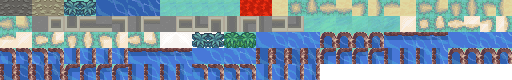
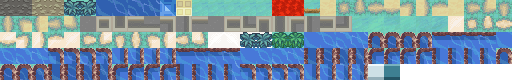
feat(odyssee): intérieurs Noir & Blanc (Centre Pokémon, Boutique), panneaux et rebords, bâtiments qui s'estompent
Claude-Session: https://claude.ai/code/session_013Y6MKYxTsBNxV1yhzsHhpk

diff --git a/odyssee/js/data/gfx-noirblanc.js b/odyssee/js/data/gfx-noirblanc.js
@@ -1,6 +1,6 @@
 // odyssee/js/data/gfx-noirblanc.js — écrit par tools/odyssee-pack-noirblanc.py (ne pas modifier à la main)
-export const NB_TUILES = ["ash0", "ash1", "cave0", "cave1", "darktall0", "darktall1", "deep0", "deep1", "deep2", "deep3", "forest0", "forest1", "grass0", "grass1", "grass2", "lava0", "lava1", "path0", "path_m0", "path_m1", "path_m10", "path_m11", "path_m12", "path_m13", "path_m14", "path_m15", "path_m2", "path_m3", "path_m4", "path_m5", "path_m6", "path_m7", "path_m8", "path_m9", "pave0", "pave_m0", "pave_m1", "pave_m10", "pave_m11", "pave_m12", "pave_m13", "pave_m14", "pave_m15", "pave_m2", "pave_m3", "pave_m4", "pave_m5", "pave_m6", "pave_m7", "pave_m8", "pave_m9", "pg_0_0", "pg_0_1", "pg_1_0", "pg_1_1", "pg_2_0", "pg_2_1", "sand0", "sand_m0", "sand_m1", "sand_m10", "sand_m11", "sand_m12", "sand_m13", "sand_m14", "sand_m15", "sand_m2", "sand_m3", "sand_m4", "sand_m5", "sand_m6", "sand_m7", "sand_m8", "sand_m9", "snow0", "snow1", "snowtall0", "snowtall1", "tall0", "tall1", "water0", "water1", "water2", "water3", "water_m0_f0", "water_m0_f1", "water_m0_f2", "water_m0_f3", "water_m10_f0", "water_m10_f1", "water_m10_f2", "water_m10_f3", "water_m11_f0", "water_m11_f1", "water_m11_f2", "water_m11_f3", "water_m12_f0", "water_m12_f1", "water_m12_f2", "water_m12_f3", "water_m13_f0", "water_m13_f1", "water_m13_f2", "water_m13_f3", "water_m14_f0", "water_m14_f1", "water_m14_f2", "water_m14_f3", "water_m15_f0", "water_m15_f1", "water_m15_f2", "water_m15_f3", "water_m1_f0", "water_m1_f1", "water_m1_f2", "water_m1_f3", "water_m2_f0", "water_m2_f1", "water_m2_f2", "water_m2_f3", "water_m3_f0", "water_m3_f1", "water_m3_f2", "water_m3_f3", "water_m4_f0", "water_m4_f1", "water_m4_f2", "water_m4_f3", "water_m5_f0", "water_m5_f1", "water_m5_f2", "water_m5_f3", "water_m6_f0", "water_m6_f1", "water_m6_f2", "water_m6_f3", "water_m7_f0", "water_m7_f1", "water_m7_f2", "water_m7_f3", "water_m8_f0", "water_m8_f1", "water_m8_f2", "water_m8_f3", "water_m9_f0", "water_m9_f1", "water_m9_f2", "water_m9_f3"];
+export const NB_TUILES = ["ash0", "ash1", "cave0", "cave1", "darktall0", "darktall1", "deep0", "deep1", "deep2", "deep3", "floor_blue", "floor_pink", "forest0", "forest1", "grass0", "grass1", "grass2", "lava0", "lava1", "ledge", "path0", "path_m0", "path_m1", "path_m10", "path_m11", "path_m12", "path_m13", "path_m14", "path_m15", "path_m2", "path_m3", "path_m4", "path_m5", "path_m6", "path_m7", "path_m8", "path_m9", "pave0", "pave_m0", "pave_m1", "pave_m10", "pave_m11", "pave_m12", "pave_m13", "pave_m14", "pave_m15", "pave_m2", "pave_m3", "pave_m4", "pave_m5", "pave_m6", "pave_m7", "pave_m8", "pave_m9", "pg_0_0", "pg_0_1", "pg_1_0", "pg_1_1", "pg_2_0", "pg_2_1", "sand0", "sand_m0", "sand_m1", "sand_m10", "sand_m11", "sand_m12", "sand_m13", "sand_m14", "sand_m15", "sand_m2", "sand_m3", "sand_m4", "sand_m5", "sand_m6", "sand_m7", "sand_m8", "sand_m9", "snow0", "snow1", "snowtall0", "snowtall1", "tall0", "tall1", "water0", "water1", "water2", "water3", "water_m0_f0", "water_m0_f1", "water_m0_f2", "water_m0_f3", "water_m10_f0", "water_m10_f1", "water_m10_f2", "water_m10_f3", "water_m11_f0", "water_m11_f1", "water_m11_f2", "water_m11_f3", "water_m12_f0", "water_m12_f1", "water_m12_f2", "water_m12_f3", "water_m13_f0", "water_m13_f1", "water_m13_f2", "water_m13_f3", "water_m14_f0", "water_m14_f1", "water_m14_f2", "water_m14_f3", "water_m15_f0", "water_m15_f1", "water_m15_f2", "water_m15_f3", "water_m1_f0", "water_m1_f1", "water_m1_f2", "water_m1_f3", "water_m2_f0", "water_m2_f1", "water_m2_f2", "water_m2_f3", "water_m3_f0", "water_m3_f1", "water_m3_f2", "water_m3_f3", "water_m4_f0", "water_m4_f1", "water_m4_f2", "water_m4_f3", "water_m5_f0", "water_m5_f1", "water_m5_f2", "water_m5_f3", "water_m6_f0", "water_m6_f1", "water_m6_f2", "water_m6_f3", "water_m7_f0", "water_m7_f1", "water_m7_f2", "water_m7_f3", "water_m8_f0", "water_m8_f1", "water_m8_f2", "water_m8_f3", "water_m9_f0", "water_m9_f1", "water_m9_f2", "water_m9_f3", "x_counter", "x_counterfront"];
 export const NB_COLS = 32;
-export const NB_DECOR = ["arbre_automne", "automne0", "automne1", "automne2", "automne3", "automne4", "automne5", "bush", "cerisier", "cuttree", "darkfront", "darkfront2", "erable", "grassfront", "grassfront2", "lamp", "pine", "rock", "snowfront", "snowfront2", "snowpine", "tree", "tree2", "tree3"];
+export const NB_DECOR = ["arbre_automne", "automne0", "automne1", "automne2", "automne3", "automne4", "automne5", "bench", "bush", "cerisier", "cuttree", "darkfront", "darkfront2", "erable", "grassfront", "grassfront2", "healer", "lamp", "pc", "pine", "plant", "rock", "sign", "snowfront", "snowfront2", "snowpine", "tree", "tree2", "tree3"];
 // bâtiments : nom → [largeur en px, colonne du milieu de la porte (ou null)]
 export const NB_BATIMENTS = {"centre": [200, 99], "boutique": [148, 91], "arene": [222, 143], "labo": [188, 88], "tour": [116, null], "maison_bleue": [154, 48], "maison_orange": [246, 134], "maison_brique": [192, 94], "maison_a": [148, 73], "maison_b": [200, 99], "maison_c": [176, 71], "boutique_b": [150, 75], "maison_d": [150, 75], "maison_e": [200, 74]};

diff --git a/index.html b/index.html
@@ -25,7 +25,7 @@
 <link rel="preconnect" href="https://fonts.googleapis.com">
 <link rel="preconnect" href="https://fonts.gstatic.com" crossorigin>
 <link href="https://fonts.googleapis.com/css2?family=Bungee&family=Chakra+Petch:wght@500;600;700&display=swap" rel="stylesheet">
-<link rel="stylesheet" href="hub/hub.css?v=5.55">
+<link rel="stylesheet" href="hub/hub.css?v=5.56">
 </head>
 <body>
 
@@ -140,22 +140,22 @@
 <!-- JEU -->
 <section class="screen" id="play"></section>
 
-<script src="shared/logger.js?v=5.55"></script>
-<script src="shared/net.js?v=5.55"></script>
-<script src="shared/room.js?v=5.55"></script>
-<script src="shared/profile.js?v=5.55"></script>
-<script src="shared/results.js?v=5.55"></script>
-<script src="shared/volume.js?v=5.55"></script>
-<script src="shared/uisfx.js?v=5.55"></script>
-<script src="hub/nettest.js?v=5.55"></script>
-<script src="hub/games.js?v=5.55"></script>
-<script src="hub/account.js?v=5.55"></script>
-<script src="hub/vip.js?v=5.55"></script>
-<script src="hub/friends.js?v=5.55"></script>
-<script src="hub/hub.js?v=5.55"></script>
-<script src="hub/home.js?v=5.55"></script>
-<script src="shared/padnav.js?v=5.55"></script>
-<script src="hub/ingame.js?v=5.55"></script>
-<script type="module" src="hub/music.js?v=5.55"></script>
+<script src="shared/logger.js?v=5.56"></script>
+<script src="shared/net.js?v=5.56"></script>
+<script src="shared/room.js?v=5.56"></script>
+<script src="shared/profile.js?v=5.56"></script>
+<script src="shared/results.js?v=5.56"></script>
+<script src="shared/volume.js?v=5.56"></script>
+<script src="shared/uisfx.js?v=5.56"></script>
+<script src="hub/nettest.js?v=5.56"></script>
+<script src="hub/games.js?v=5.56"></script>
+<script src="hub/account.js?v=5.56"></script>
+<script src="hub/vip.js?v=5.56"></script>
+<script src="hub/friends.js?v=5.56"></script>
+<script src="hub/hub.js?v=5.56"></script>
+<script src="hub/home.js?v=5.56"></script>
+<script src="shared/padnav.js?v=5.56"></script>
+<script src="hub/ingame.js?v=5.56"></script>
+<script type="module" src="hub/music.js?v=5.56"></script>
 </body>
 </html>

diff --git a/odyssee/js/main.js b/odyssee/js/main.js
@@ -4,6 +4,7 @@ import * as THREE from 'three';
 import { WorldView } from './render/world3d.js';
 import { setArt } from './render/textures.js';
 import { packActif, solChoix } from './gfx.js';
+import { paletteMurs } from './render/murs-tex.js';
 try { document.documentElement.classList.add('gfx-' + solChoix()); } catch (e) { /* hors navigateur */ }
 import { buildWorld } from './world/region.js';
 import { Input } from './input.js';
@@ -121,6 +122,7 @@ async function boot() {
   const art = await loadArt();
   prechauffe.length = 0;
   etape('images');
+  for (const [nom, pal] of Object.entries(packActif()?.murs || {})) paletteMurs(nom, pal);
   setArt({ kits: art.kits, sols: art.sols, sol32: art.sol32, hgss: art.hgss, relief: art.relief, pack: art.pack });
   const view = new WorldView(renderer, art.chars, { sprites: art.sprites, dens: art.dens, suiveurs: art.suiveurs, batiments: art.batiments, packDecor: !!packActif()?.decor });
   etape('vue');

diff --git a/odyssee/js/gfx.js b/odyssee/js/gfx.js
@@ -32,6 +32,8 @@ export const PACKS = {
     dossier: 'gfx/noirblanc',
     planche: { fichier: 'sol', tuiles: NB_TUILES, cols: NB_COLS },   // tuiles de sol de 16 px sur une seule image
     decor: NB_DECOR,          // d_<nom>.png, 32 px par case : dessiné pixel pour pixel
+    // murs des intérieurs aux couleurs de Noir & Blanc (render/murs-tex.js) : le Centre Pokémon crème et orange
+    murs: { center: { fond: '#f6eab4', motif: '#eedd98', bande: '#f09a52', bandeS: '#c8692c', lam: '#f2d68a', lamC: '#faeab0', lamS: '#d2a85c', cim: '#fffdf2', pl: '#a8602c', cap: '#b06830', capC: '#f0b070' } },
     chars: 'chars',           // planche des personnages de Noir & Blanc 2 (même disposition que celle du jeu)
     // bâtiments entiers (b_<nom>.png) par style du jeu : le jeu prend celui dont la largeur colle à l'emprise
     batiments: Object.fromEntries(Object.entries({

diff --git a/odyssee/js/render/textures.js b/odyssee/js/render/textures.js
@@ -255,6 +255,10 @@ export function buildAtlas() {
     const [u0, v0] = cells[k], cx = Math.round(u0 * SIZE) - 1, cy = Math.round(v0 * SIZE) - 1;
     blit(ctx, up2(im), cx, cy);
   }
+  // pack de graphismes : une tuile « x_<clé> » remplace telle quelle la tuile <clé> dessinée par le code (comptoirs…)
+  for (const k of Object.keys(SOL32)) if (k.startsWith('x_') && cells[k.slice(2)]) {
+    const [u0, v0] = cells[k.slice(2)]; blit(ctx, up2(SOL32[k]), Math.round(u0 * SIZE) - 1, Math.round(v0 * SIZE) - 1);
+  }
   // hautes herbes du tileset : chaque pièce (bords, coins, pleines) posée sur le sol qui l'entoure
   const HERBE_GROUND = { prairie: img.grass0, bois: img.grass0, neige: img.snow0 };
   for (const theme of ['prairie', 'bois', 'neige']) for (const k of HERBE_PIECES) {

diff --git a/odyssee/js/render/murs-tex.js b/odyssee/js/render/murs-tex.js
@@ -36,6 +36,9 @@ const STYLES = {
   cendre: { fond: '#5a4a44', motif: '#4a3c36', motifK: 'pierres', lam: '#3e322c', lamC: '#5a4a42', lamS: '#2a201c', cim: '#8a6a50', pl: '#1e1612', cap: '#2e2420', capC: '#6a5444' },
 };
 /** style des murs d'une carte d'intérieur (null : on garde l'ancien rendu) */
+/** pack de graphismes : d'autres couleurs pour les murs d'un style (avant de fabriquer les textures) */
+export function paletteMurs(nom, p) { if (STYLES[nom]) Object.assign(STYLES[nom], p); }
+
 export function styleMur(m) {
   const w = m.wallStyle || 'wall_in';
   if (w === 'wall_in') { let h = 0; for (const ch of String(m.id)) h = (h * 31 + ch.charCodeAt(0)) >>> 0; return 'in' + (h % 4); }

diff --git a/odyssee/js/render/world3d.js b/odyssee/js/render/world3d.js
@@ -1477,6 +1477,8 @@ export class WorldView {
         const mat = screenSprite(new THREE.MeshBasicMaterial({ map: t, alphaTest: 0.5, side: THREE.DoubleSide }));
         this.tinted.push(mat); mat.color.copy(this.tint);
         const me = new THREE.Mesh(geo, mat); me.position.set(ax, hb, az); g.add(me); g.userData.b = b;
+        // le dessin dépasse l'emprise vers le nord : il s'estompe quand on passe derrière lui (toute sa hauteur, toute sa largeur)
+        g.userData.ecran = { zN: b.d - im.height / 32, x0: ax - W / 2 - b.x, x1: ax + W / 2 - b.x };
         this.root.add(g); this.buildingMeshes.push(g); return;
       }
     }

diff --git a/odyssee/css/25-hud-compact.css b/odyssee/css/25-hud-compact.css
@@ -11,7 +11,8 @@
 .hud-btn img { width: calc(var(--px) * 11.5); height: calc(var(--px) * 11.5); }
 .hud-btn span, .hud-btn b { overflow: hidden; text-overflow: clip; max-width: 100%; }
 .hud-party { top: calc(var(--px) * 6); gap: calc(var(--px) * 1.2); zoom: .86; }
-.hud-dexnav { width: auto; max-width: none; }
+.hud:not(.collapsed) .hud-dexnav { width: auto; max-width: none; }
+.hud.collapsed .hud-dexnav-row { display: none; }
 .hud-dexnav-row { max-height: calc(var(--px) * 22); }
 @media (max-aspect-ratio: 8/5) {
   .hud-gear { zoom: .84; }

diff --git a/apropos.html b/apropos.html
@@ -13,7 +13,7 @@
 <link rel="preconnect" href="https://fonts.googleapis.com">
 <link rel="preconnect" href="https://fonts.gstatic.com" crossorigin>
 <link href="https://fonts.googleapis.com/css2?family=Bungee&family=Chakra+Petch:wght@500;600;700&display=swap" rel="stylesheet">
-<link rel="stylesheet" href="hub/hub.css?v=5.55">
+<link rel="stylesheet" href="hub/hub.css?v=5.56">
 <style>
   .doc{width:min(860px,100%);margin:0 auto;display:flex;flex-direction:column;gap:22px}
   .doc .card h2{margin-top:0}

diff --git a/hub/hub.js b/hub/hub.js
@@ -1,7 +1,7 @@
 /* Hub : profil, salon commun et lancement des jeux dans une iframe.
    Le salon (DDRoom) vit ici pendant toute la session : changer de jeu ne coupe pas la connexion. */
 (function () {
-  const VERSION = '5.55';
+  const VERSION = '5.56';
   const $ = (s) => document.querySelector(s);
   const ORIGIN = location.origin === 'null' ? '*' : location.origin;
   const GAMES = window.HUB_GAMES;

diff --git a/tools/odyssee-pack-noirblanc.py b/tools/odyssee-pack-noirblanc.py
@@ -108,6 +108,18 @@ for f in range(4):
         T[f'water_m{m}_f{f}'] = t
     T[f'water{f}'] = fr.crop((32, 64, 64, 96))
     T[f'deep{f}'] = MERP.crop((f * 192 + 32, 64, f * 192 + 64, 96))
+# rebord à sauter (vers le sud) et intérieurs : sol du Centre Pokémon et de la Boutique, comptoirs aux couleurs du kit
+T['ledge'] = over(G0, BW.crop((112, 960, 144, 992)))
+CENTRE, BOUTIQUE = L('centre_interieur.png'), L('boutique_interieur.png')
+T['floor_pink'] = cell(1, 10, CENTRE); T['floor_blue'] = cell(0, 5, BOUTIQUE)
+
+
+def uni(haut, milieu, bas, h=4, b=6):
+    t = Image.new('RGBA', (32, 32), milieu); t.paste(haut, (0, 0, 32, h)); t.paste(bas, (0, 32 - b, 32, 32)); return t
+
+
+T['x_counter'] = uni((240, 248, 250, 255), (206, 224, 230, 255), (150, 176, 186, 255))
+T['x_counterfront'] = uni((120, 178, 190, 255), (62, 128, 146, 255), (36, 84, 100, 255))
 noms = sorted(T)
 COLS = 32
 planche = Image.new('RGBA', (COLS * 16, ((len(noms) + COLS - 1) // COLS) * 16))
@@ -150,6 +162,10 @@ D = {
     'bush': net(trim(BW.crop((0, 632, 32, 672)))), 'lamp': net(trim(BW.crop((224, 608, 256, 736)))),
     'rock': trim(L('objet_rocher.png').crop((0, 0, 32, 32))), 'cuttree': trim(L('objet_arbuste.png').crop((0, 0, 32, 32))),
 }
+# mobilier du Centre Pokémon et panneau de bois des routes
+D['plant'] = net(trim(CENTRE.crop((192, 1096, 224, 1170)))); D['pc'] = net(trim(CENTRE.crop((192, 1010, 224, 1090))))
+D['healer'] = net(trim(CENTRE.crop((130, 1012, 192, 1090)))); D['bench'] = net(trim(CENTRE.crop((64, 960, 160, 992))))
+D['sign'] = net(trim(BW.crop((176, 98 * 32, 256, 100 * 32))))
 # devant les jambes de qui marche dans les hautes herbes : le bas de la touffe
 bas = lambda t: t.crop((0, 16, 32, 32))
 D['grassfront'], D['grassfront2'] = bas(touffe), bas(flip(touffe))

diff --git a/AGENTS.md b/AGENTS.md
@@ -159,7 +159,7 @@ Ajouter `[skip changelog]` dans le message d'un commit purement technique pour q
   Touches reçues par les écrans : celles de `odyssee/js/input.js` uniquement (`a`, `b`, flèches, `map`, `menu`…), jamais `space` ni `enter`.
   Rendu : les sprites sont dessinés à l'écran pixel pour pixel, ancrés à leurs pieds
   (shader `screenSprite` de `odyssee/js/render/world3d.js`), les bâtiments prennent la profondeur de leur façade.
-- Odyssée, choix des graphismes (Options → Graphismes, `odyssee/js/gfx.js`, classe `gfx-<choix>` sur la page) : « Odyssée (de base) » ou « Noir & Blanc ». Le pack Noir & Blanc vient en entier du kit Pokémon Essentials BW de KleinStudio (planches dans `assets/graphics/noirblanc/`) : `python3 tools/odyssee-pack-noirblanc.py` écrit `odyssee/img/gfx/noirblanc/` (`sol.png` : tuiles de 16 px, herbe à motif `pg_<col>_<ligne>`, bords des chemins et rivages par voisinage `<terrain>_m<masque>`, `water_m<masque>_f<image>` ; `d_<nom>.png` : décor à 32 px par case ; `b_<nom>.png` : bâtiments entiers, positions et portes dans `kit_bw_batiments.json` ; `chars.png` : personnages, table `persos.json` nom du jeu → fichier du kit) et `odyssee/js/data/gfx-noirblanc.js` (ne pas modifier à la main). Côté jeu : `loadArt` de `main.js` (découpe de la planche), `setArt` / `buildAtlas` / `buildAnimAtlas` de `render/textures.js`, `groundCell` et `poserBat` de `render/world3d.js` (un bâtiment du pack n'est pris que si sa largeur colle à l'emprise, sinon le modèle de base reste). Les intérieurs, les grottes et les combats gardent les graphismes de base. Sprites des Pokémon (HeartGold / SoulSilver ou Noir & Blanc, `gen()` dans `assets.js`). HUD compact commun aux deux graphismes : `odyssee/css/25-hud-compact.css`. Toute tuile ou sprite ajouté doit être crédité (`CREDITS` et un `LISEZMOI.txt` à côté).
+- Odyssée, choix des graphismes (Options → Graphismes, `odyssee/js/gfx.js`, classe `gfx-<choix>` sur la page) : « Odyssée (de base) » ou « Noir & Blanc ». Le pack Noir & Blanc vient en entier du kit Pokémon Essentials BW de KleinStudio (planches dans `assets/graphics/noirblanc/`) : `python3 tools/odyssee-pack-noirblanc.py` écrit `odyssee/img/gfx/noirblanc/` (`sol.png` : tuiles de 16 px, herbe à motif `pg_<col>_<ligne>`, bords des chemins et rivages par voisinage `<terrain>_m<masque>`, `water_m<masque>_f<image>` ; `d_<nom>.png` : décor à 32 px par case ; `b_<nom>.png` : bâtiments entiers, positions et portes dans `kit_bw_batiments.json` ; `chars.png` : personnages, table `persos.json` nom du jeu → fichier du kit) et `odyssee/js/data/gfx-noirblanc.js` (ne pas modifier à la main). Côté jeu : `loadArt` de `main.js` (découpe de la planche), `setArt` / `buildAtlas` / `buildAnimAtlas` de `render/textures.js`, `groundCell` et `poserBat` de `render/world3d.js` (un bâtiment du pack n'est pris que si sa largeur colle à l'emprise, sinon le modèle de base reste). Intérieurs : sol du Centre Pokémon et de la Boutique (`floor_pink`, `floor_blue`), comptoirs (une tuile `x_<clé>` du pack remplace la tuile `<clé>` dessinée par le code), mobilier (`plant`, `pc`, `healer`, `bench`) et couleurs des murs (`murs` du pack, `paletteMurs` de `render/murs-tex.js`) ; les maisons, les grottes, le relief (falaises) et les combats gardent les graphismes de base. Un bâtiment du pack s'estompe quand on passe derrière (`userData.ecran`). Sprites des Pokémon (HeartGold / SoulSilver ou Noir & Blanc, `gen()` dans `assets.js`). HUD compact commun aux deux graphismes : `odyssee/css/25-hud-compact.css`. Toute tuile ou sprite ajouté doit être crédité (`CREDITS` et un `LISEZMOI.txt` à côté).
 - Island Rush (battle royale, `royale/`) : l'île vient d'une graine (`royale/engine/map.js`, île officielle `ILE`), `royale/carte.html`
   la montre en 2D. `node tools/test-royale.mjs` vérifie l'île sur plusieurs graines, le déplacement (portes, escaliers, murs, nage),
   une partie (butin, combat, construction), les copies des invités et le relais d'hôte, la prédiction : à lancer quand on touche
